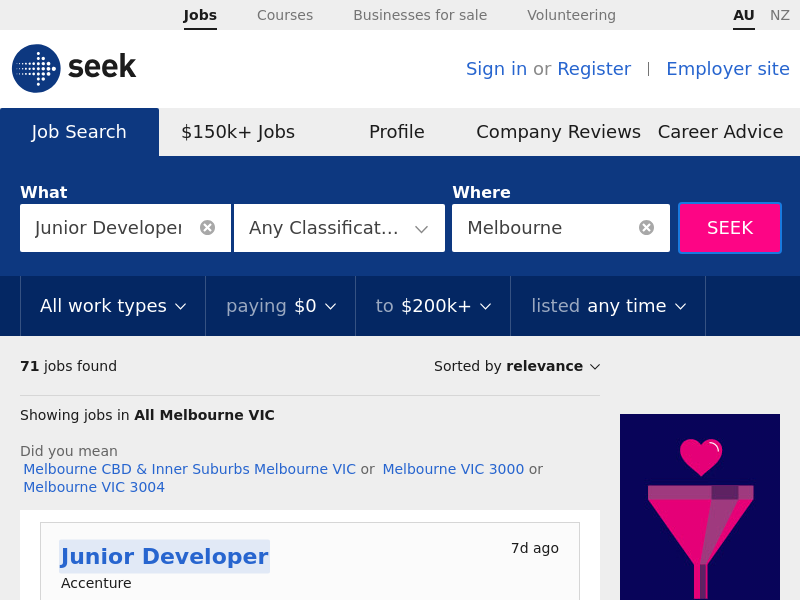
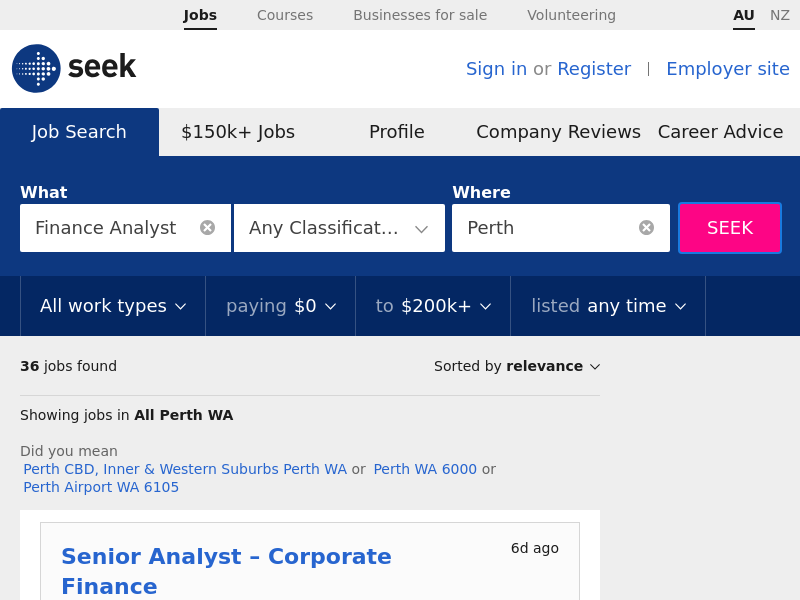
Add location to scrape parameter

diff --git a/src/job-scrape.js b/src/job-scrape.js
@@ -1,11 +1,13 @@
 const puppeteer = require('puppeteer');
 const mongoose = require('mongoose');
+const EventEmitter = require('events');
+EventEmitter.defaultMaxListeners = 100;
 
 const constants = require('./util/constants.js');
 const Job = require('./models/job');
 
-const jobTitle = 'Junior Developer'
-const jobLocation = 'Melbourne'
+const jobTitle = 'Finance Analyst'
+const jobLocation = 'Perth'
 const jobTitleLink = jobTitle.toLowerCase().split(' ').join('-')
 const searchUrl = `https://www.seek.com.au/${jobTitleLink}-jobs/in-${jobLocation}`
 
@@ -42,6 +44,7 @@ async function run() {
             let titleSelector = constants.JOB_TITLE.replace('INDEX', i);
             let detailSelector = constants.JOB_DETAILS.replace('INDEX', i);
             let categorySelector = constants.JOB_CATEGORY.replace('INDEX', i);
+            let locationSelector = constants.JOB_LOCATION.replace('INDEX', i);
 
             let jobTitle = await page.evaluate(sel => {
                 let element = document.querySelector(sel)
@@ -63,6 +66,11 @@ async function run() {
                 return element ? element.innerText : null
             }, detailSelector)
 
+            let jobLocation = await page.evaluate(sel => {
+                let element = document.querySelector(sel)
+                return element ? element.innerText : null
+            }, locationSelector)
+
             let jobDays = await page.evaluate(sel => {
                 let element = document.querySelectorAll(sel)[1]
                 return element ? element.innerText : null
@@ -71,10 +79,11 @@ async function run() {
             console.log(jobTitle + '->' + jobCategory + '->' + jobCompany + '->' + jobDays)
 
             await insertJob({
+                description: jobDescription,
                 title: jobTitle,
                 company: jobCompany,
-                description: jobDescription,
                 category: jobCategory,
+                location: jobLocation,
                 period: jobDays,
                 dateCrawled: new Date()
             })
@@ -100,19 +109,18 @@ async function getNumPages(page) {
 
 async function insertJob(jobPost) {
     const DB_URL = 'mongodb://localhost/joblist'
-    const connection = mongoose.connection
 
-    if (connection.readyState === 0) {
+    if (mongoose.connection.readyState === 0) {
         await mongoose.connect(DB_URL);
     }
 
-    connection.on('connected', () => {
+    mongoose.connection.on('connected', () => {
         console.log('Establish connection to MongoDB')
     })
 
     // if a job entry exists, update the entry, don't insert
     let conditions = {
-        period: jobPost.period
+        description: jobPost.description
     }
 
     let options = {
@@ -123,6 +131,7 @@ async function insertJob(jobPost) {
 
     Job.findOneAndUpdate(conditions, jobPost, options, (err, result) => {
         if (err) throw err;
-        console.log('Job posted.')
+        // console.log(jobPost)
+        console.count('Job posted!')
     });
 }

diff --git a/src/test.js b/src/test.js
@@ -18,7 +18,7 @@ async function run() {
         await page.click(constants.SEARCH);
         await page.waitFor(2000);
     
-    const testSelector = 'div._365Hwu1 > article:nth-child(2) > div._1mzsMx5 > span.K1Fdmkw > span > span > strong > span > span'
+    const testSelector = 'div._365Hwu1 > article:nth-child(2) > div._1mzsMx5 > span.E6m4BZb > span > strong > span > a'
     let test = await page.evaluate( sel => {
         let test = document.querySelector(sel)
         return test.innerText

diff --git a/src/util/constants.js b/src/util/constants.js
@@ -7,5 +7,6 @@ module.exports = Object.freeze({
     JOB_TITLE: 'div._365Hwu1 > article:nth-child(INDEX)',
     JOB_DETAILS: 'div._365Hwu1 > article:nth-child(INDEX) > span.E6m4BZb',
     JOB_CATEGORY: 'div._365Hwu1 > article:nth-child(INDEX) > div._1mzsMx5 > span.K1Fdmkw > span > span > strong > span > span',
+    JOB_LOCATION: 'div._365Hwu1 > article:nth-child(2) > div._1mzsMx5 > span.E6m4BZb > span > strong > span > a',
     JOBS_NUM: '#SearchSummary > span > h1 > strong'
 })

diff --git a/src/models/job.js b/src/models/job.js
@@ -1,10 +1,11 @@
 const mongoose = require('mongoose');
 
 let jobSchema = new mongoose.Schema({
+    description: String,
     title: String,
     company: String,
-    description: String,
     category: String,
+    location: String,
     period: String,
     dateCrawled: Date
 });
